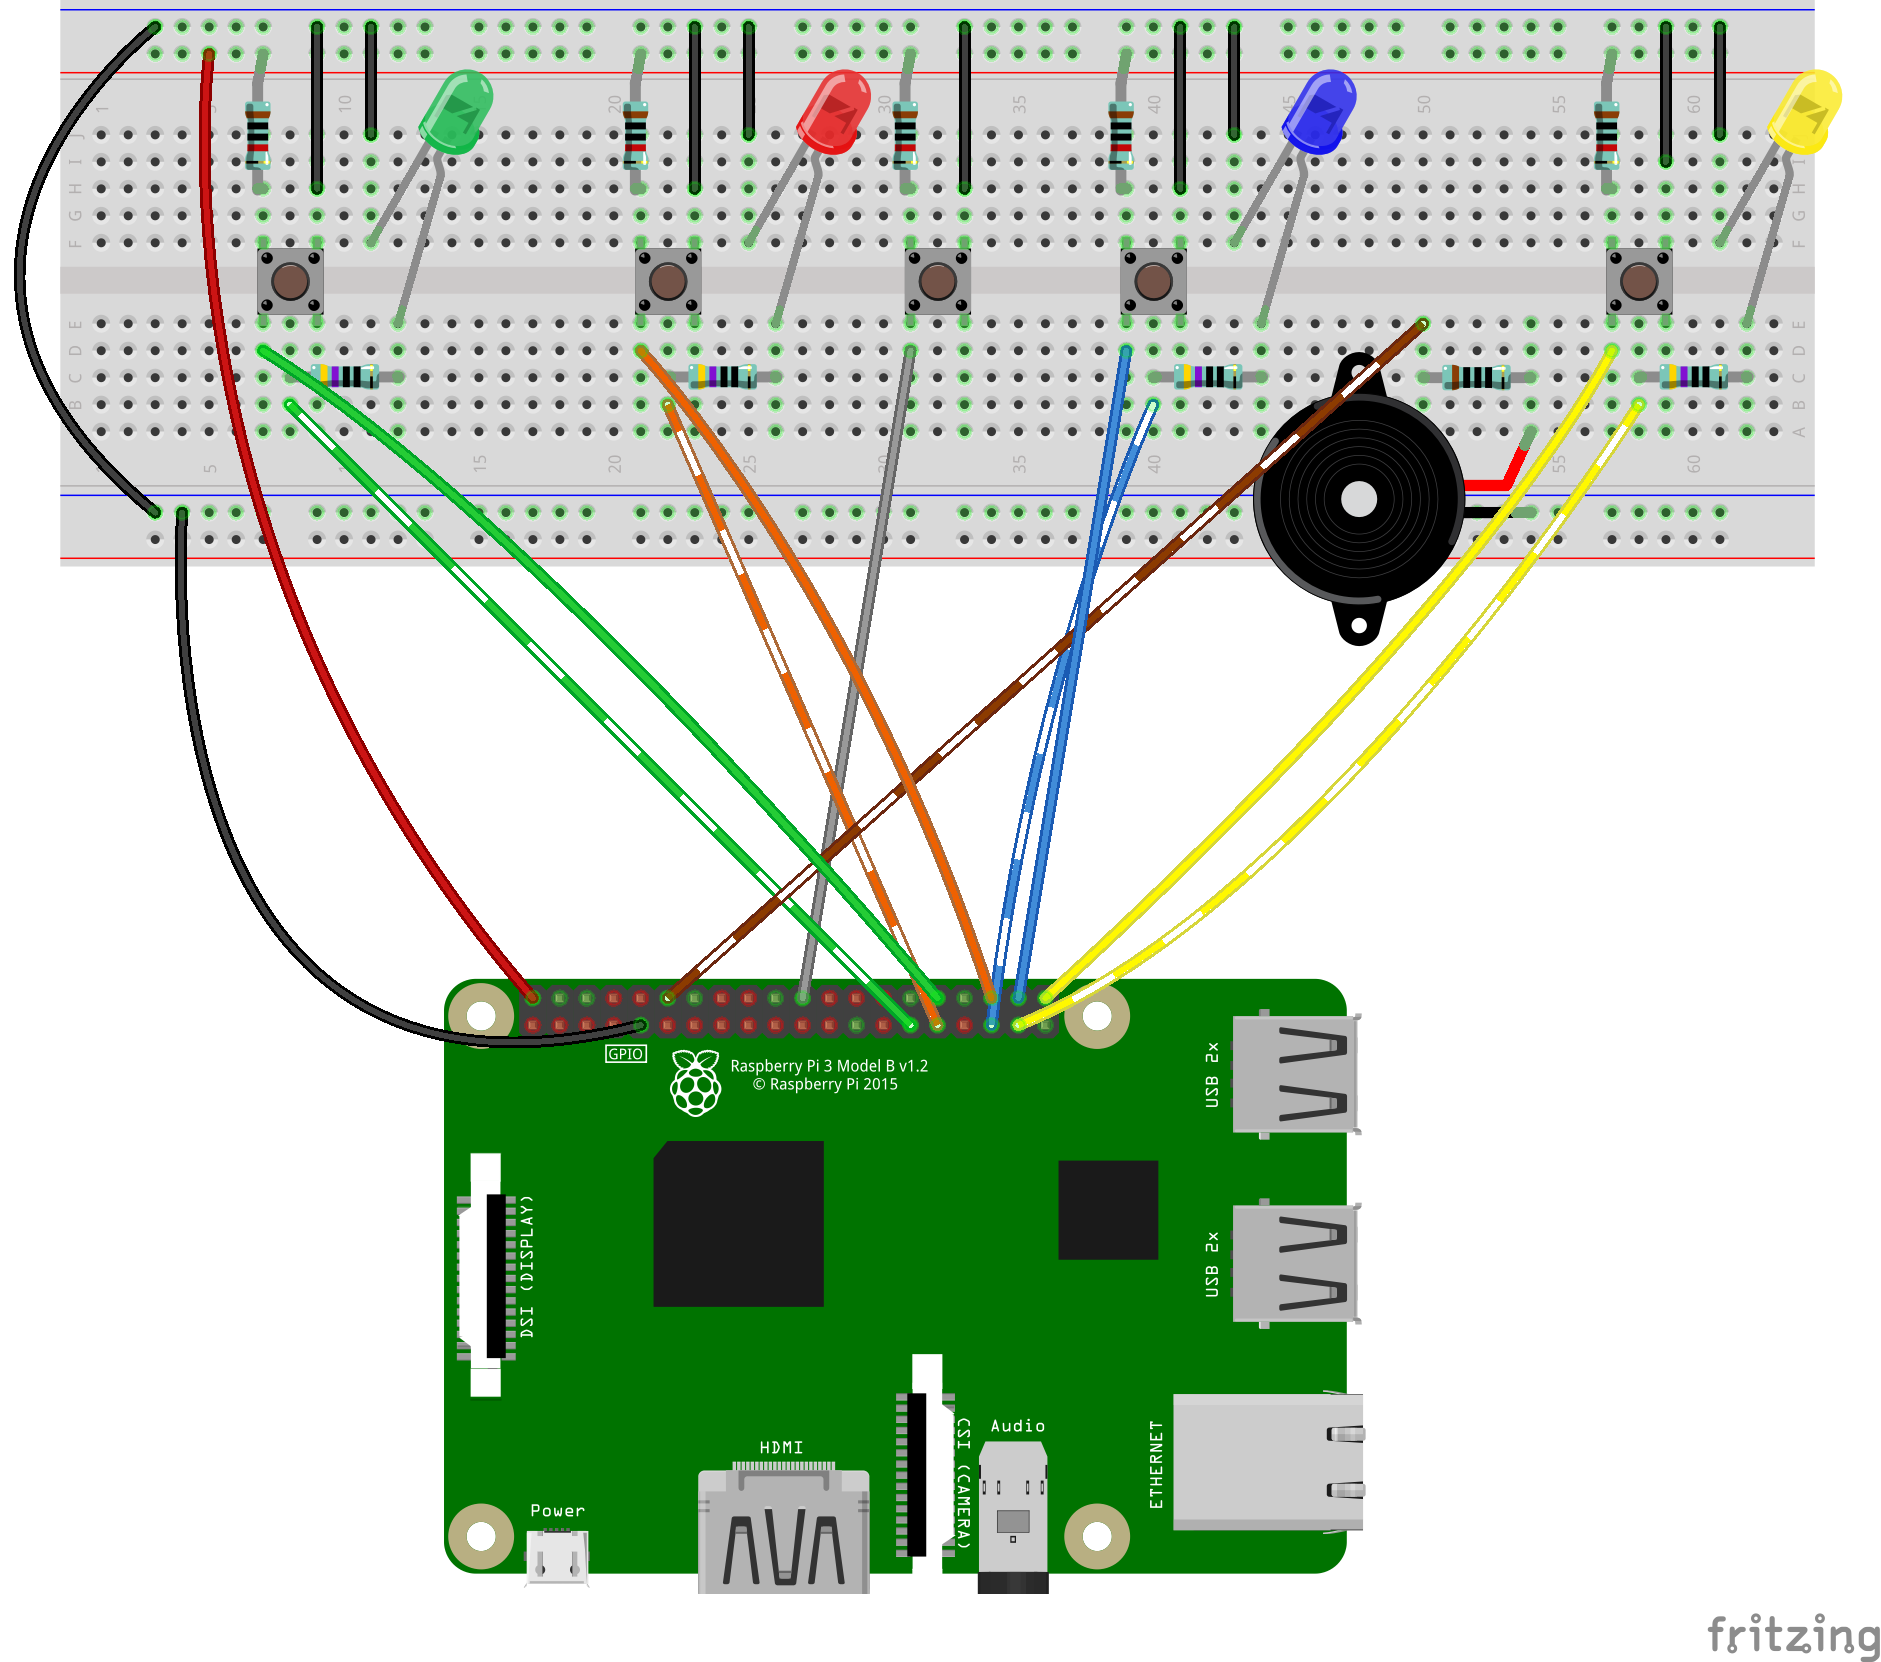
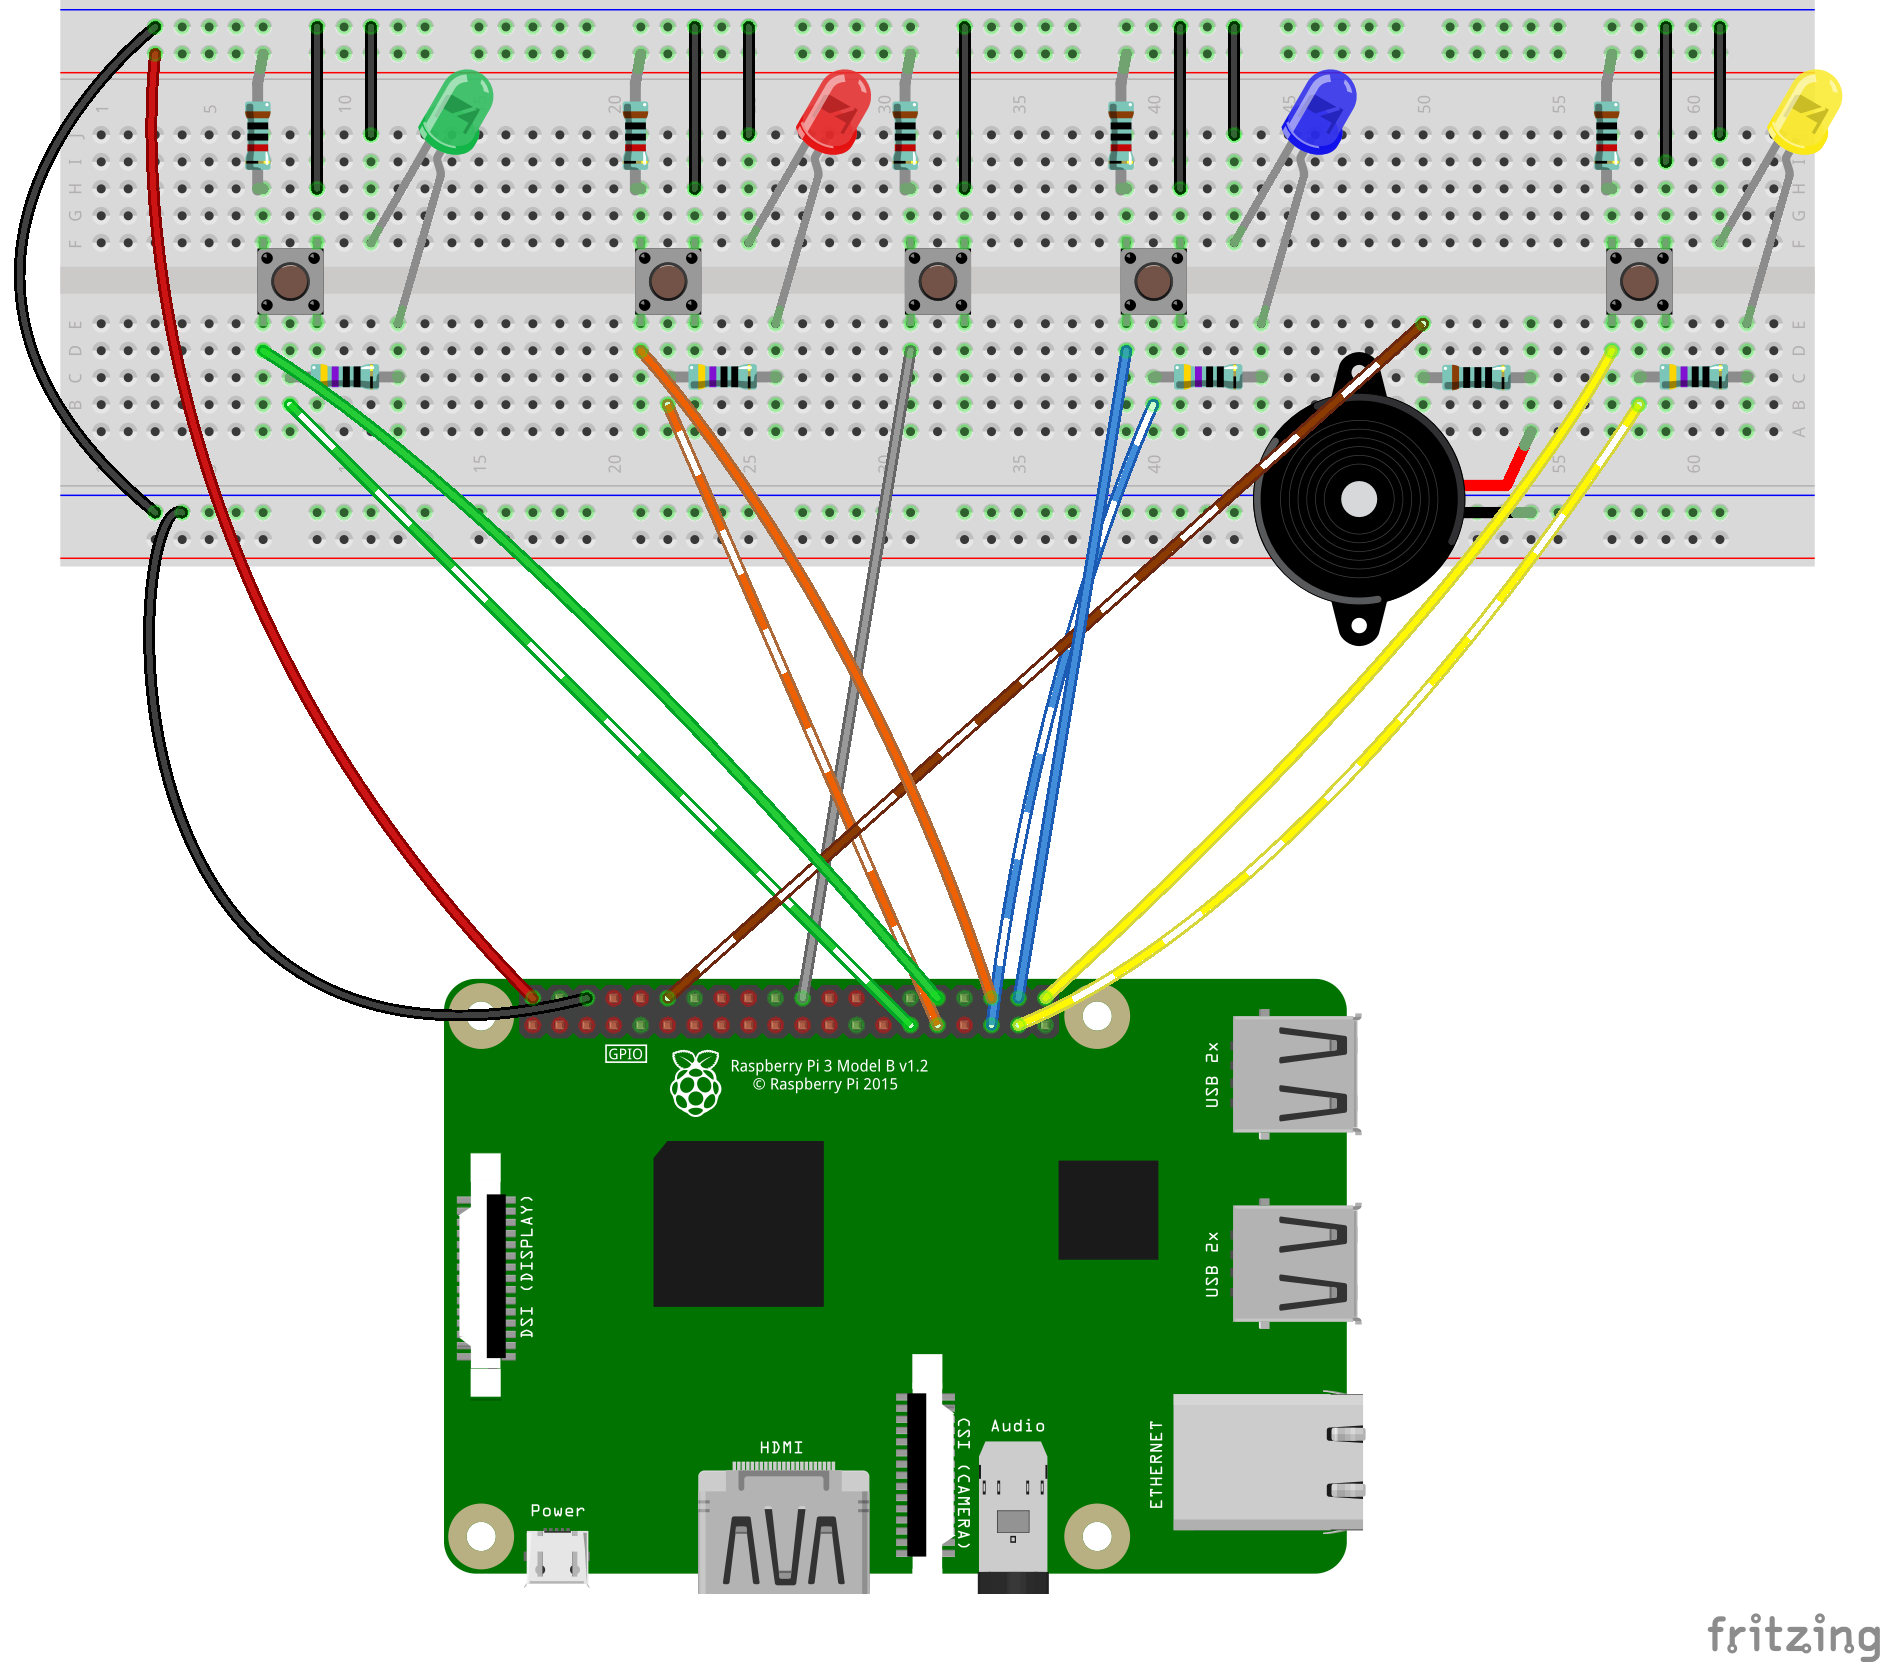
Finish board configuration

Changed region(s): [[0.0617, 0.0307, 0.3392, 0.6444]]

diff --git a/simon-says-android-things/app/src/main/java/com/novoda/simonsaysandroidthings/HomeActivity.java b/simon-says-android-things/app/src/main/java/com/novoda/simonsaysandroidthings/HomeActivity.java
@@ -14,7 +14,7 @@ import com.novoda.simonsaysandroidthings.hw.io.Group;
 import com.novoda.simonsaysandroidthings.hw.io.Led;
 import com.novoda.simonsaysandroidthings.hw.io.PwmBuzzer;
 
-import java.util.Collections;
+import java.util.Arrays;
 
 public class HomeActivity extends Activity {
 
@@ -27,13 +27,14 @@ public class HomeActivity extends Activity {
 
         BoardFactory boardFactory = BoardFactory.getBoardFactory();
         PeripheralManagerService service = new PeripheralManagerService();
-        Button yellowButton = GpioButton.create(boardFactory.getYellowButtonGpio(), service);
-        Led yellowLed = GpioLed.create(boardFactory.getYellowLedGpio(), service);
         Buzzer buzzer = PwmBuzzer.create(boardFactory.getBuzzerPwm(), service);
 
-        Group yellow = new Group(yellowLed, yellowButton, buzzer, 1000);
+        Group green = createGroup(service, boardFactory.getGreenButtonGpio(), boardFactory.getGreenLedGpio(), buzzer, 500);
+        Group red = createGroup(service, boardFactory.getRedButtonGpio(), boardFactory.getRedLedGpio(), buzzer, 1000);
+        Group blue = createGroup(service, boardFactory.getBlueButtonGpio(), boardFactory.getBlueLedGpio(), buzzer, 1500);
+        Group yellow = createGroup(service, boardFactory.getYellowButtonGpio(), boardFactory.getYellowLedGpio(), buzzer, 2000);
 
-        game = new SimonSays(Collections.singletonList(yellow), new SharedPrefsHighscore(this), buzzer);
+        game = new SimonSays(Arrays.asList(green, red, blue, yellow), new SharedPrefsHighscore(this), buzzer);
         game.start();
 
         toggleButton = GpioButton.create(boardFactory.getToggleGpio(), service);
@@ -48,6 +49,12 @@ public class HomeActivity extends Activity {
                 game.toggle();
             }
         });
+    }
+
+    private Group createGroup(PeripheralManagerService service, String buttonPinName, String ledPinName, Buzzer buzzer, int frequency) {
+        Button button = GpioButton.create(buttonPinName, service);
+        Led led = GpioLed.create(ledPinName, service);
+        return new Group(led, button, buzzer, frequency);
     }
 
     @Override

diff --git a/simon-says-android-things/app/src/main/java/com/novoda/simonsaysandroidthings/hw/board/Rpi3BoardFactory.java b/simon-says-android-things/app/src/main/java/com/novoda/simonsaysandroidthings/hw/board/Rpi3BoardFactory.java
@@ -4,17 +4,17 @@ class Rpi3BoardFactory extends BoardFactory {
 
     @Override
     public String getGreenLedGpio() {
-        throw new RuntimeException("Not implemented yet");
+        return "BCM5";
     }
 
     @Override
     public String getRedLedGpio() {
-        throw new RuntimeException("Not implemented yet");
+        return "BCM6";
     }
 
     @Override
     public String getBlueLedGpio() {
-        throw new RuntimeException("Not implemented yet");
+        return "BCM19";
     }
 
     @Override
@@ -24,17 +24,17 @@ class Rpi3BoardFactory extends BoardFactory {
 
     @Override
     public String getGreenButtonGpio() {
-        throw new RuntimeException("Not implemented yet");
+        return "BCM12";
     }
 
     @Override
     public String getRedButtonGpio() {
-        throw new RuntimeException("Not implemented yet");
+        return "BCM16";
     }
 
     @Override
     public String getBlueButtonGpio() {
-        throw new RuntimeException("Not implemented yet");
+        return "BCM20";
     }
 
     @Override
